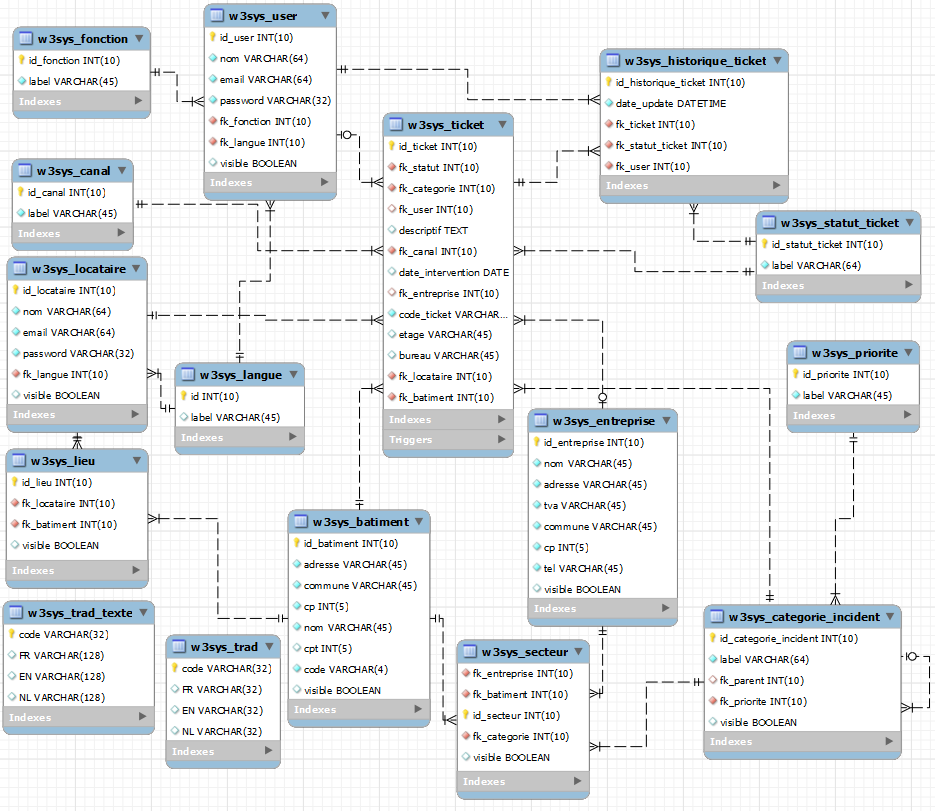
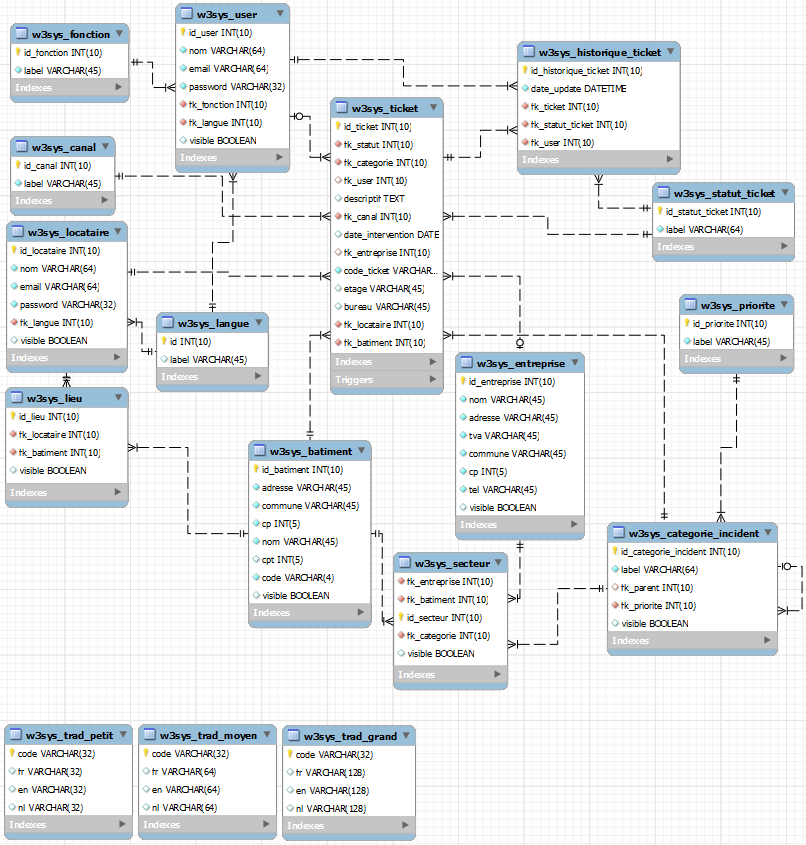
modify tables for translation and delete older

diff --git a/protected/models/TradGrand.php b/protected/models/TradGrand.php
@@ -1,0 +1,101 @@
+<?php
+
+/**
+* This is the model class for table "w3sys_trad_grand".
+*
+* The followings are the available columns in table 'w3sys_trad_grand':
+    * @property string $code
+    * @property string $fr
+    * @property string $en
+    * @property string $nl
+*/
+class TradGrand extends CActiveRecord
+{
+/**
+* @return string the associated database table name
+*/
+public function tableName()
+{
+return 'w3sys_trad_grand';
+}
+
+/**
+* @return array validation rules for model attributes.
+*/
+public function rules()
+{
+// NOTE: you should only define rules for those attributes that
+// will receive user inputs.
+return array(
+    array('code', 'required'),
+    array('code', 'length', 'max'=>32),
+    array('fr, en, nl', 'length', 'max'=>128),
+// The following rule is used by search().
+// @todo Please remove those attributes that should not be searched.
+array('code, fr, en, nl', 'safe', 'on'=>'search'),
+);
+}
+
+/**
+* @return array relational rules.
+*/
+public function relations()
+{
+// NOTE: you may need to adjust the relation name and the related
+// class name for the relations automatically generated below.
+return array(
+);
+}
+
+/**
+* @return array customized attribute labels (name=>label)
+*/
+public function attributeLabels()
+{
+return array(
+    'code' => 'Code',
+    'fr' => 'Fr',
+    'en' => 'En',
+    'nl' => 'Nl',
+);
+}
+
+/**
+* Retrieves a list of models based on the current search/filter conditions.
+*
+* Typical usecase:
+* - Initialize the model fields with values from filter form.
+* - Execute this method to get CActiveDataProvider instance which will filter
+* models according to data in model fields.
+* - Pass data provider to CGridView, CListView or any similar widget.
+*
+* @return CActiveDataProvider the data provider that can return the models
+* based on the search/filter conditions.
+*/
+public function search()
+{
+// @todo Please modify the following code to remove attributes that should not be searched.
+
+$criteria=new CDbCriteria;
+
+		$criteria->compare('code',$this->code,true);
+		$criteria->compare('fr',$this->fr,true);
+		$criteria->compare('en',$this->en,true);
+		$criteria->compare('nl',$this->nl,true);
+
+return new CActiveDataProvider($this, array(
+'criteria'=>$criteria,
+));
+}
+
+/**
+* Returns the static model of the specified AR class.
+* Please note that you should have this exact method in all your CActiveRecord descendants!
+* @param string $className active record class name.
+* @return TradGrand the static model class
+*/
+public static function model($className=__CLASS__)
+{
+return parent::model($className);
+}
+}

diff --git a/protected/models/TradPetit.php b/protected/models/TradPetit.php
@@ -1,22 +1,22 @@
 <?php
 
 /**
-* This is the model class for table "w3sys_trad_texte".
+* This is the model class for table "w3sys_trad_petit".
 *
-* The followings are the available columns in table 'w3sys_trad_texte':
+* The followings are the available columns in table 'w3sys_trad_petit':
     * @property string $code
     * @property string $fr
     * @property string $en
     * @property string $nl
 */
-class TradTexte extends CActiveRecord
+class TradPetit extends CActiveRecord
 {
 /**
 * @return string the associated database table name
 */
 public function tableName()
 {
-return 'w3sys_trad_texte';
+return 'w3sys_trad_petit';
 }
 
 /**
@@ -28,8 +28,7 @@ public function rules()
 // will receive user inputs.
 return array(
     array('code', 'required'),
-    array('code', 'length', 'max'=>32),
-    array('fr, en, nl', 'length', 'max'=>128),
+    array('code, fr, en, nl', 'length', 'max'=>32),
 // The following rule is used by search().
 // @todo Please remove those attributes that should not be searched.
 array('code, fr, en, nl', 'safe', 'on'=>'search'),
@@ -92,7 +91,7 @@ return new CActiveDataProvider($this, array(
 * Returns the static model of the specified AR class.
 * Please note that you should have this exact method in all your CActiveRecord descendants!
 * @param string $className active record class name.
-* @return TradTexte the static model class
+* @return TradPetit the static model class
 */
 public static function model($className=__CLASS__)
 {

diff --git a/protected/models/TradMoyen.php b/protected/models/TradMoyen.php
@@ -1,22 +1,22 @@
 <?php
 
 /**
-* This is the model class for table "w3sys_trad".
+* This is the model class for table "w3sys_trad_moyen".
 *
-* The followings are the available columns in table 'w3sys_trad':
+* The followings are the available columns in table 'w3sys_trad_moyen':
     * @property string $code
     * @property string $fr
     * @property string $en
     * @property string $nl
 */
-class Trad extends CActiveRecord
+class TradMoyen extends CActiveRecord
 {
 /**
 * @return string the associated database table name
 */
 public function tableName()
 {
-return 'w3sys_trad';
+return 'w3sys_trad_moyen';
 }
 
 /**
@@ -28,7 +28,8 @@ public function rules()
 // will receive user inputs.
 return array(
     array('code', 'required'),
-    array('code, fr, en, nl', 'length', 'max'=>32),
+    array('code', 'length', 'max'=>32),
+    array('fr, en, nl', 'length', 'max'=>64),
 // The following rule is used by search().
 // @todo Please remove those attributes that should not be searched.
 array('code, fr, en, nl', 'safe', 'on'=>'search'),
@@ -91,7 +92,7 @@ return new CActiveDataProvider($this, array(
 * Returns the static model of the specified AR class.
 * Please note that you should have this exact method in all your CActiveRecord descendants!
 * @param string $className active record class name.
-* @return Trad the static model class
+* @return TradMoyen the static model class
 */
 public static function model($className=__CLASS__)
 {

diff --git a/protected/controllers/Translate.php b/protected/controllers/Translate.php
@@ -2,13 +2,18 @@
 
 class Translate {
     
-    public static function trad($txt) {
-        $result = Trad::model()->findByPk($txt);
+    public static function tradPetit($txt) {
+        $result = TradPetit::model()->findByPk($txt);
         return $result[Yii::app()->session['_lang']];
     }
     
-    public static function tradText($txt) {
-        $result = TradTexte::model()->findByPk($txt);
+    public static function tradMoyen($txt) {
+        $result = TradMoyen::model()->findByPk($txt);
+        return $result[Yii::app()->session['_lang']];
+    }
+    
+    public static function tradGrand($txt) {
+        $result = TradGrand::model()->findByPk($txt);
         return $result[Yii::app()->session['_lang']];
     }
     
